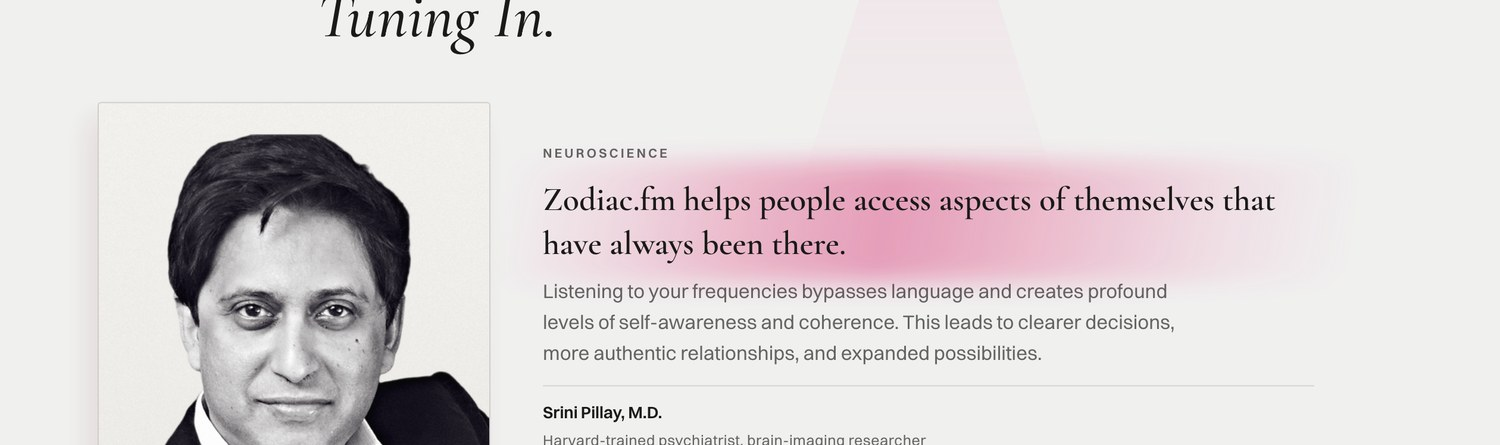
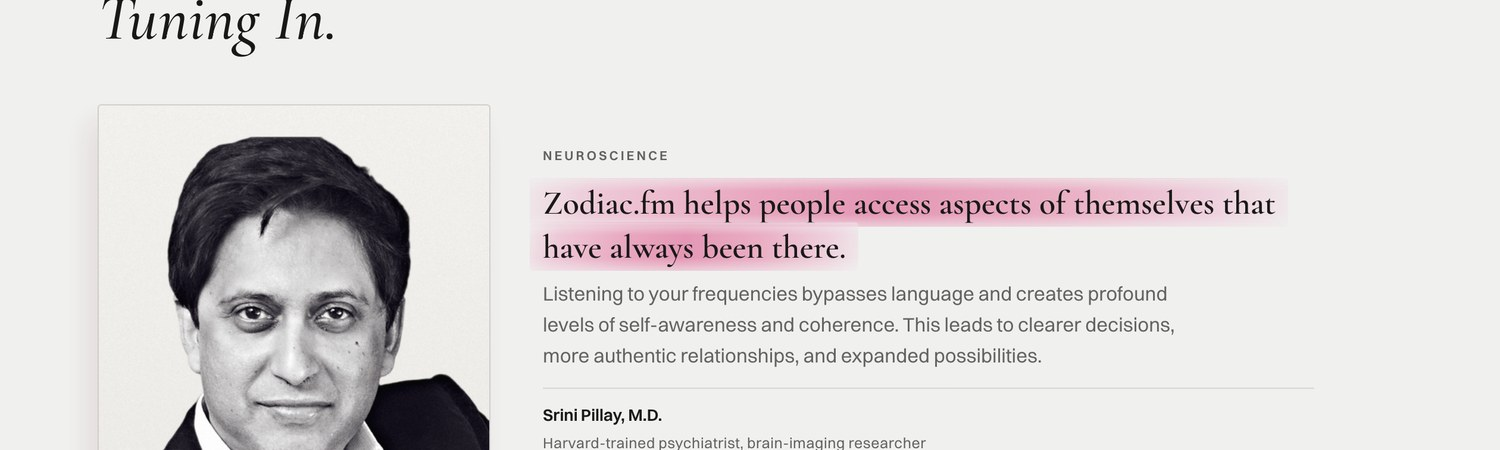
styleguide: the treatment is HIGHLIGHT, not POOL
It does not beam from anywhere, so naming it as light was wrong (fd-056).
HIGHLIGHT = one brand colour marked on the line that carries the argument;
the field around it stays black and white.

The recipe is rewritten to the thing that shipped: the mark is drawn on the
text with box-decoration-break clone, one stroke per line, edges washed back
into the paper, no throw and no cone. The credential beneath may take the
same stroke at a fraction of the strength. P-197 re-shot from the live page.

diff --git a/site/styleguide.html b/site/styleguide.html
@@ -420,16 +420,16 @@
       </figure>
       </div>
     </div>
-    <div class="tblock" id="pool">
-      <div class="thead"><div class="chapnum">09</div><h2>POOL</h2><p class="tdef">POOL = colour arrives as light and lands on one line of type; the field around it stays black and white.</p></div>
+    <div class="tblock" id="highlight">
+      <div class="thead"><div class="chapnum">09</div><h2>HIGHLIGHT</h2><p class="tdef">HIGHLIGHT = one brand colour marked on the line that carries the argument; the field around it stays black and white.</p></div>
       <div class="tgrid">
       <figure class="photo">
-        <img loading="lazy" src="/site/assets/sg-treatments/pool-do-home-t9.jpg" alt="The Voices section of home-t9: a soft rose throw descends from above the headline and pools on the first quote, the rest of the section pure black and white">
-        <figcaption><b class="pid">P-197 &middot; DO</b><span class="ttl">The Light On The Line</span><span class="recipe"><i>Recipe</i> three parts, all behind the words. The THROW is a soft cone from out of frame, heavily blurred and low &mdash; if you can see it as a triangle it is too strong. The POOL is the footprint on the paper, tapered at both ends, tilted a couple of degrees, and its core is the most SATURATED part, never the palest. The BOUNCE is a whisper of the colour on the nearest print&#x27;s edge facing the light, with its shadow thrown away. Field saturation outside the pool 0.4 per cent; peak on the line 31 per cent. One line lit per section; one of the four colours, swappable. Never on a face &mdash; the light sits behind the prints, so the prints occlude it. A page frame, not a photograph: the treatment doing its job on home-t9.</span></figcaption>
+        <img loading="lazy" src="/site/assets/sg-treatments/pool-do-home-t9.jpg" alt="The Voices section of home-t9: a rose highlight drawn across the first quote line by line, the rest of the section pure black and white">
+        <figcaption><b class="pid">P-197 &middot; DO</b><span class="ttl">The Mark On The Line</span><span class="recipe"><i>Recipe</i> the mark is drawn on the TEXT, never on the paragraph box: <code>box-decoration-break: clone</code> gives every line its own stroke, so it ends where the words end and a short last line trails no colour across empty paper. Tapered at both ends, tilted a couple of degrees, and its top and bottom edges washed back into the page&#x27;s own paper so it is not a ruled rectangle. It does NOT pretend to be light &mdash; there is no source, no cone, no beam (Michael: "the highlight does not beam from anywhere it just is"). ONE line per section, and the credential beneath may take the same mark at a fraction of the strength so the quote still leads. One of the four colours, swappable. Never on a face. A page frame, not a photograph: the treatment doing its job on home-t9.</span></figcaption>
       </figure>
       <figure class="photo">
         <img loading="lazy" src="/site/assets/sg-treatments/pool-dont-home-t8.jpg" alt="The rejected Voices section of home-t8: a flat pale lavender band tinting the whole section with no source, no falloff and no shadow">
-        <figcaption><b class="pid">P-198 &middot; DON&#x27;T</b><span class="ttl">Shading, Not Light</span><span class="recipe"><i>Recipe</i> the failure this treatment replaces: the whole field tinted, so there is no monochrome left for the colour to land against; a band with no source you can point at, no falloff, and nothing in the scene answering it. A pop is made by emptying the field, not by filling it. A page frame, not a photograph: the rejected home-t8 Voices kept as the failure exemplar.</span></figcaption>
+        <figcaption><b class="pid">P-198 &middot; DON&#x27;T</b><span class="ttl">Shading, Not A Mark</span><span class="recipe"><i>Recipe</i> the failure this treatment replaces: the whole field tinted, so there is no monochrome left for the colour to land against. Michael, 2026-09-04: "filling it all in is complete violation on monochrome with color pop." A pop is made by emptying the field, not by filling it. A page frame, not a photograph: the rejected home-t8 Voices kept as the failure exemplar.</span></figcaption>
       </figure>
       </div>
     </div>
@@ -909,7 +909,7 @@
       <li>WORN is the only people move; SUN is the hour, riding every treatment.</li>
       <li>CHORD bookends only — opener and finale, never the middle.</li>
       <li>CHIP speaks wherever the product does.</li>
-      <li>POOL is how a proof section carries colour: the light lands on one line, and only there.</li>
+      <li>HIGHLIGHT is how a proof section carries colour: the mark lands on one line, and only there.</li>
       <li>The ground serves the section's intent — night, sun, or neutral, anywhere — and never screws with the pop (the ground-pop law above).</li>
     </ol>
   </div>
